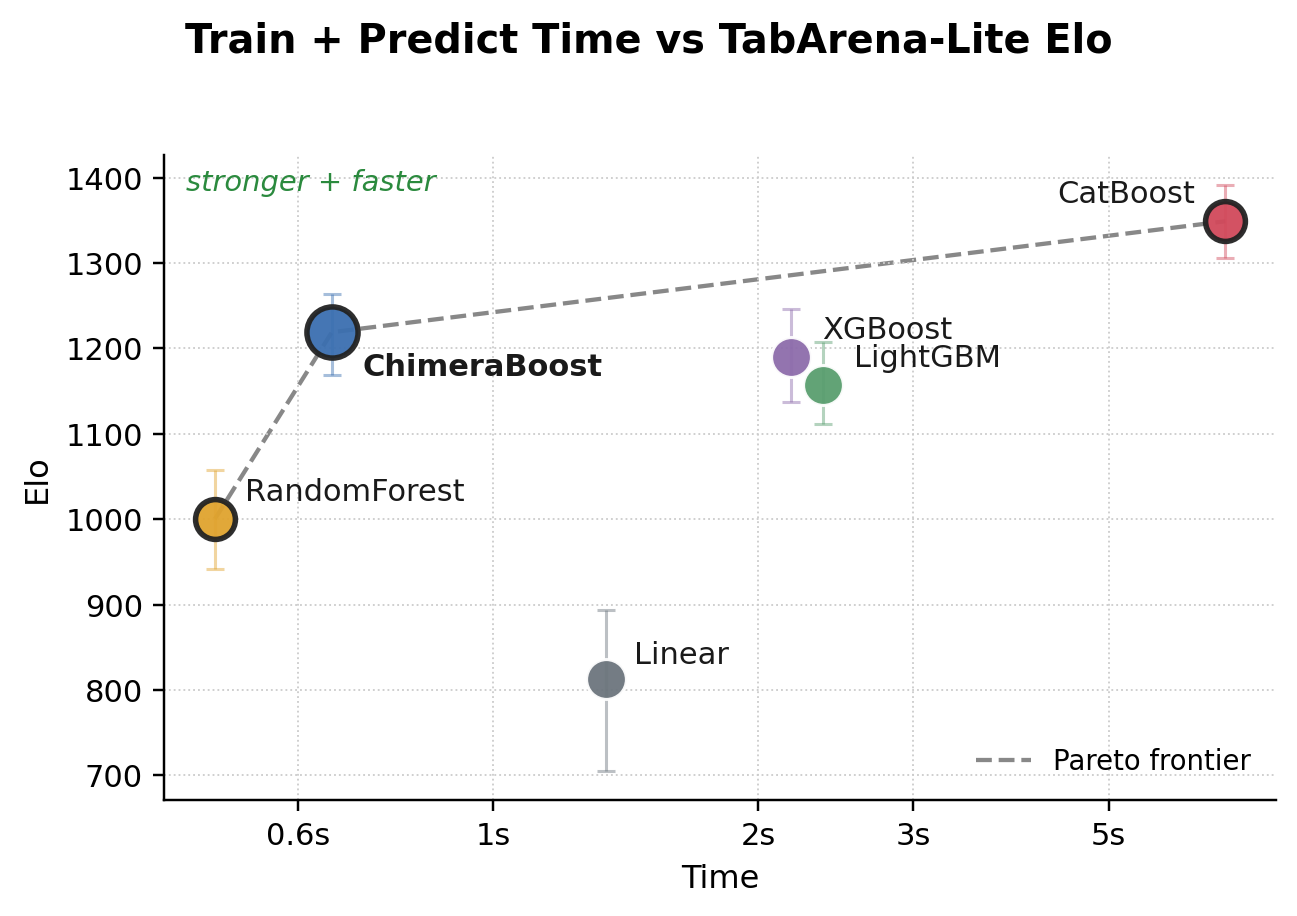
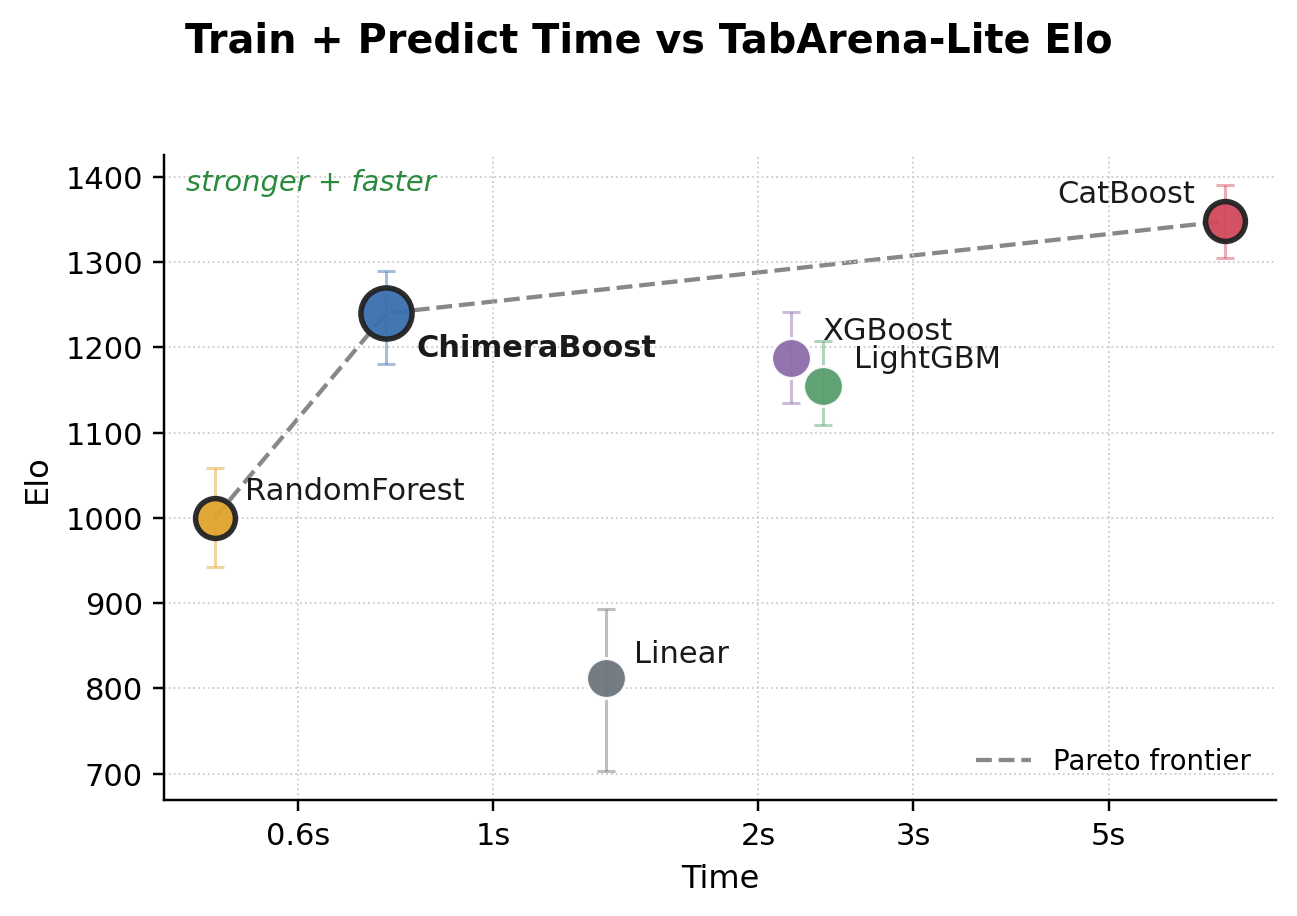
Refresh TabArena-Lite Pareto chart: Elo 1219 (stale) -> 1240
Fresh 51-task Lite run (0 failures) on current source with the
post-PR-#358-review wrapper. The chart's DATA block was doubly stale:

- Elo 1219 was the June-03 numeric-cats number; the wrapper gained the
  TabArena-validation-split + native-categoricals fixes in the June-16
  review round, which the Lite cache never reflected. Fresh Lite default
  = 1240 (+49/-60), consistent with the Full run's 1220->1259 move from
  the same fixes. The parallel-kernel commits are bit-identical and
  contribute nothing to the Elo (as designed).
- Train 0.65 s/1K / predict 0.106: within the historical run-to-run
  noise band (0.63-0.80 across identical-code runs). The kernel
  speedups do not express in the Lite median task (small data,
  overhead-dominated, 6-thread fits) - honestly reported as flat.

Whole pool re-read from the one regenerated leaderboard (Elo is
relative). ChimeraBoost stays on the Pareto frontier: fastest GBDT
on the board, above XGBoost(1188)/LightGBM(1155), below
CatBoost-default(1348).

Report-only per the sealed-holdout vow: nothing here feeds back into
source; the run exists to refresh the published chart.

diff --git a/benchmarks/make_tabarena_pareto.py b/benchmarks/make_tabarena_pareto.py
@@ -28,15 +28,19 @@ MODEL_COLOR = {
 }
 
 # TabArena-Lite, default config, bagged. (elo, elo_plus, elo_minus, train_s/1K, predict_s/1K)
-# Refreshed 2026-06-03 after shipping linear leaves (default-on for binary): ChimeraBoost
-# 1212 -> 1219. Elo is relative, so the whole pool was re-read from the regenerated leaderboard.
+# Refreshed 2026-07-07 from a fresh 51-task run on 0.13.1 + the parallel-kernels branch,
+# with the post-PR-#358-review wrapper (TabArena validation split for early stopping +
+# native categoricals): ChimeraBoost 1219 (stale June-03 number) -> 1240. The gain is the
+# wrapper integration, not the kernels (those are bit-identical); train time is within the
+# historical run-to-run noise band (median Lite task is small and overhead-dominated).
+# Elo is relative, so the whole pool was re-read from the regenerated leaderboard.
 DATA = {
-    "CatBoost":     (1349, 43, 43, 6.70, 0.088),
-    "ChimeraBoost": (1219, 45, 50, 0.59, 0.066),
-    "XGBoost":      (1190, 56, 53, 2.06, 0.122),
-    "LightGBM":     (1157, 51, 46, 2.20, 0.171),
+    "CatBoost":     (1348, 43, 43, 6.70, 0.088),
+    "ChimeraBoost": (1240, 49, 60, 0.65, 0.106),
+    "XGBoost":      (1188, 54, 53, 2.06, 0.122),
+    "LightGBM":     (1155, 52, 46, 2.20, 0.171),
     "RandomForest": (1000, 58, 58, 0.43, 0.053),
-    "Linear":       (813, 81, 108, 1.23, 0.115),
+    "Linear":       (812, 81, 109, 1.23, 0.115),
 }
 
 